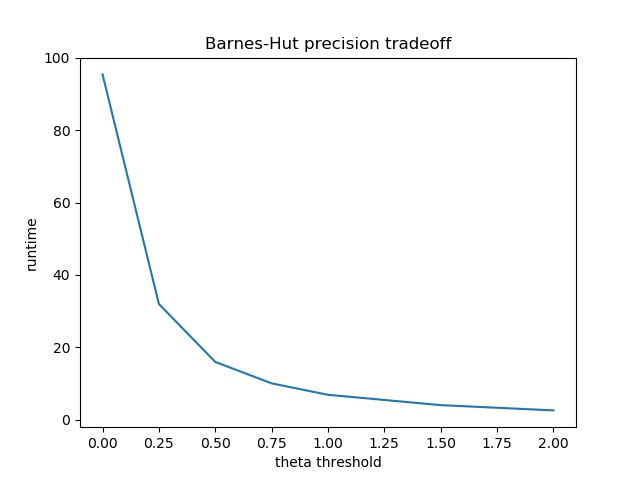
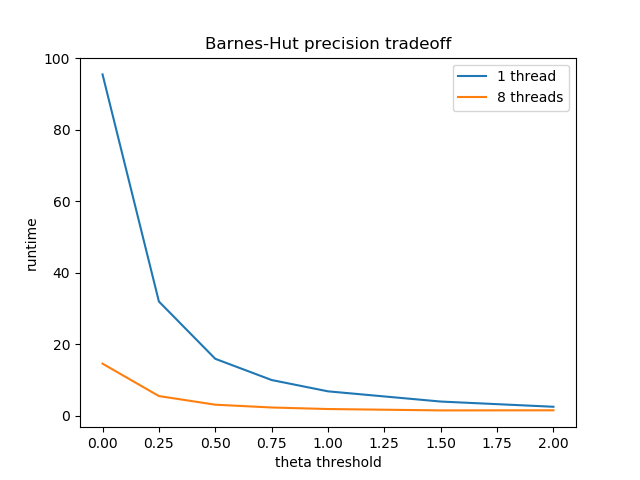
more plots

diff --git a/plots/plots.py b/plots/plots.py
@@ -1,58 +1,68 @@
 import numpy as np
 import matplotlib.pyplot as plt
 
-n_b =[ 100,
-	200,
-    	300	,
-        400	,
-        500	,
-        600,
-        	1000
-,            	1800
-,                3000
-,                	4000]
-
-t_b = [1.6809258,	4.468020667,	8.056646,	11.545364,	15.64071333,	19.80075633	,38.669263,	84.460101,	155.81142,	226.409964]
-
-n_n =[ 100,
-	200,
-    	300	,
-        400	,
-        500	,
-        600,
-        	1000
-,            	1800
-,                3000]
-t_n =[0.480207,	1.996413,	4.286402,	7.705542,	12.110508,	17.622435,	48.121326,	154.50399,	433.893076]
-
-plt.plot(n_b, t_b, label='Barnes-Hut')
-plt.plot(n_n, t_n, label='Naive')
-plt.title('Comparing Naive and Barnes-Hut Complexities')
-plt.xlabel('simulation size')
-plt.ylabel('runtime')
-plt.legend()
-plt.savefig('barnes_hut_naive_comparison.png')
-plt.show()
-
-
-# thetas = [0,
-# 0.25,
-# 0.5,
-# 0.75,
-# 1,
-# 1.5,
-# 2]
-# times = [95.451988,
-# 31.964402,
-# 15.956491,
-# 10.026705,
-# 6.86496,
-# 4.008479,
-# 2.552203]
+# n_b =[ 100,
+# 	200,
+#     	300	,
+#         400	,
+#         500	,
+#         600,
+#         	1000
+# ,            	1800
+# ,                3000
+# ,                	4000]
 #
-# plt.plot(thetas, times)
-# plt.title('Barnes-Hut precision tradeoff')
-# plt.xlabel('theta threshold')
+# t_b = [1.6809258,	4.468020667,	8.056646,	11.545364,	15.64071333,	19.80075633	,38.669263,	84.460101,	155.81142,	226.409964]
+#
+# n_n =[ 100,
+# 	200,
+#     	300	,
+#         400	,
+#         500	,
+#         600,
+#         	1000
+# ,            	1800
+# ,                3000]
+# t_n =[0.480207,	1.996413,	4.286402,	7.705542,	12.110508,	17.622435,	48.121326,	154.50399,	433.893076]
+#
+# plt.plot(n_b, t_b, label='Barnes-Hut')
+# plt.plot(n_n, t_n, label='Naive')
+# plt.title('Comparing Naive and Barnes-Hut Complexities')
+# plt.xlabel('simulation size')
 # plt.ylabel('runtime')
-# plt.savefig('theta_threshold.png')
+# plt.legend()
+# plt.savefig('barnes_hut_naive_comparison.png')
 # plt.show()
+
+
+thetas = [0,
+0.25,
+0.5,
+0.75,
+1,
+1.5,
+2]
+times = [95.451988,
+31.964402,
+15.956491,
+10.026705,
+6.86496,
+4.008479,
+2.552203]
+
+times_8 = [14.603416,
+5.542921,
+3.129218,
+2.347713,
+1.917794,
+1.535374,
+1.562756]
+
+plt.plot(thetas, times, label='1 thread')
+plt.plot(thetas, times_8, label='8 threads')
+plt.legend()
+plt.title('Barnes-Hut precision tradeoff')
+plt.xlabel('theta threshold')
+plt.ylabel('runtime')
+plt.savefig('theta_threshold.png')
+plt.show()
